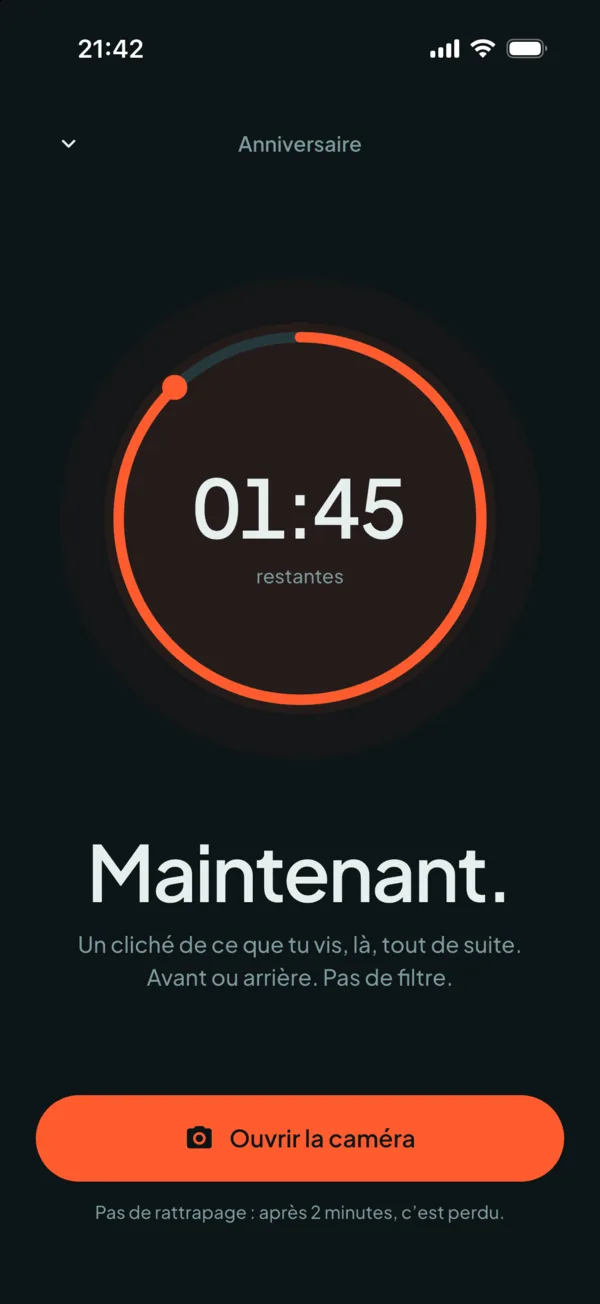
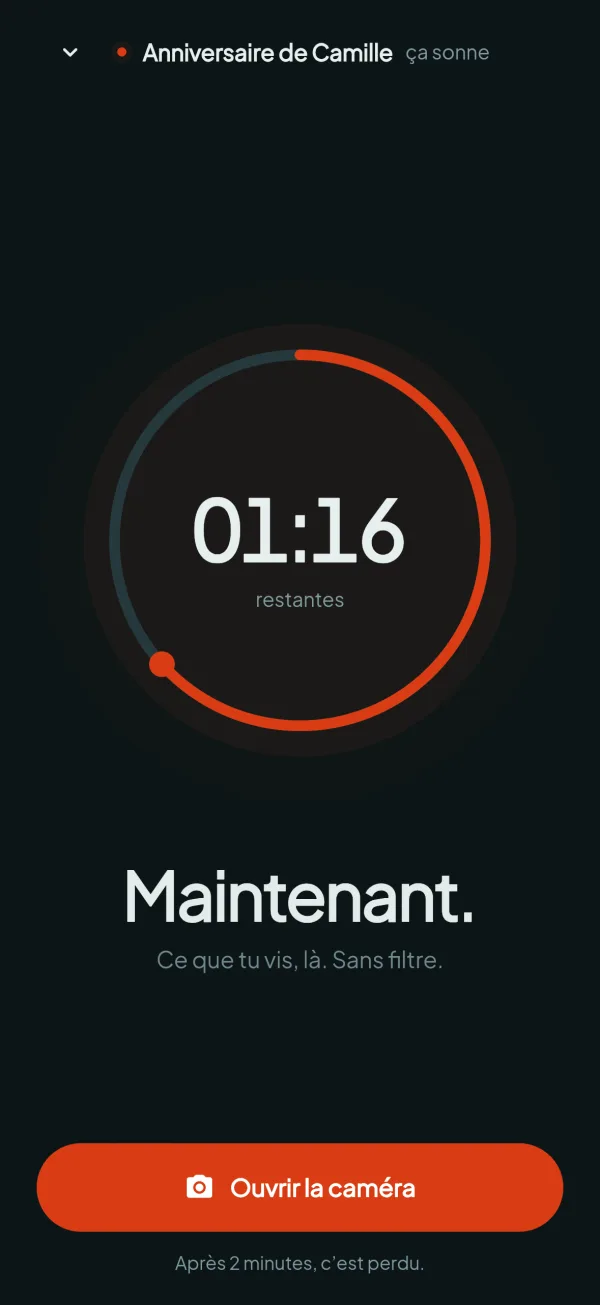
Hero : nouvelle capture de l'écran ping

diff --git a/index.html b/index.html
@@ -125,7 +125,7 @@
   <link rel="icon" href="assets/favicon.png" />
   <link rel="apple-touch-icon" href="assets/apple-touch-icon.png" />
   <link rel="preload" href="assets/fonts/jakarta.woff2" as="font" type="font/woff2" crossorigin />
-  <link rel="preload" href="assets/screens/23-ping-camera.webp" as="image" />
+  <link rel="preload" href="assets/screens/23-ping-camera.webp?v=2" as="image" />
   <link rel="stylesheet" href="styles.css?v=11" />
 </head>
 <body>
@@ -196,7 +196,7 @@
             <img src="assets/screens/21-live.webp" alt="" width="600" height="1305" loading="eager" />
           </div>
           <div class="phone phone--front">
-            <img src="assets/screens/23-ping-camera.webp" alt="Écran Wuuti : un ping sonne, il reste 1 minute 45 pour prendre la photo." width="600" height="1305" fetchpriority="high" />
+            <img src="assets/screens/23-ping-camera.webp?v=2" alt="Écran Wuuti : un ping sonne, il reste 1 minute 16 pour prendre la photo." width="600" height="1305" fetchpriority="high" />
             <div class="notif" data-notif aria-hidden="true">
               <span class="notif__icon"><span class="eyes eyes--xs" data-eyes="static" aria-hidden="true"></span></span>
               <span class="notif__body">
